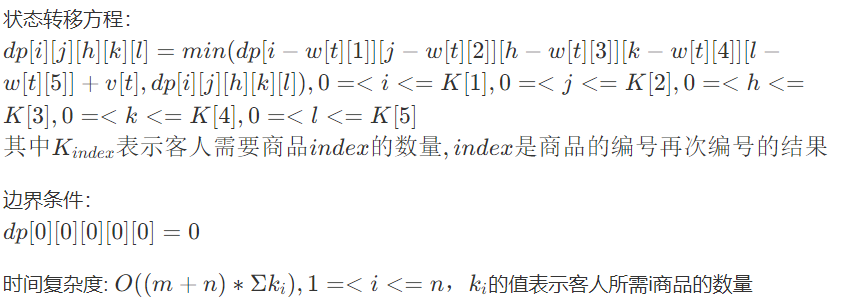
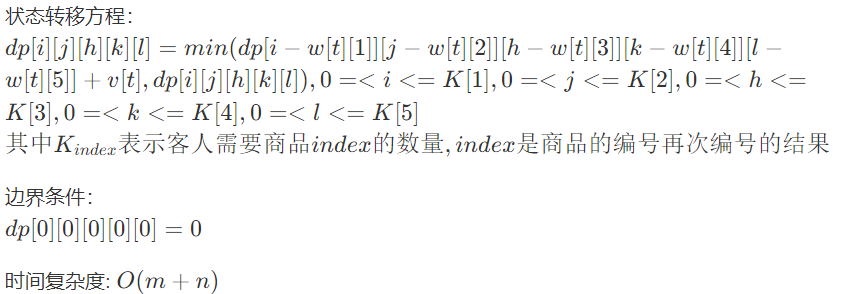
Site updated: 2023-05-20 22:24:40

diff --git a/2023/05/18/动态规划1/index.html b/2023/05/18/动态规划1/index.html
@@ -34,7 +34,7 @@
 <meta property="og:image" content="https://sunwuzhou03.github.io/images/%E5%8A%A8%E6%80%81%E8%A7%84%E5%88%921%E9%A2%98%E7%9B%AE3%E5%88%86%E6%9E%90%E5%9B%BE.png">
 <meta property="og:image" content="https://sunwuzhou03.github.io/images/%E5%8A%A8%E6%80%81%E8%A7%84%E5%88%921%E9%A2%98%E7%9B%AE3%E8%BF%90%E8%A1%8C%E7%BB%93%E6%9E%9C%E5%9B%BE.png">
 <meta property="article:published_time" content="2023-05-18T15:24:16.000Z">
-<meta property="article:modified_time" content="2023-05-20T09:23:13.744Z">
+<meta property="article:modified_time" content="2023-05-20T14:24:24.164Z">
 <meta property="article:author" content="sunwuzhou03">
 <meta property="article:tag" content="动态规划">
 <meta name="twitter:card" content="summary">
@@ -214,7 +214,7 @@
         <i class="far fa-calendar-check"></i>
       </span>
       <span class="post-meta-item-text">更新于</span>
-      <time title="修改时间：2023-05-20 17:23:13" itemprop="dateModified" datetime="2023-05-20T17:23:13+08:00">2023-05-20</time>
+      <time title="修改时间：2023-05-20 22:24:24" itemprop="dateModified" datetime="2023-05-20T22:24:24+08:00">2023-05-20</time>
     </span>
     <span class="post-meta-item">
       <span class="post-meta-item-icon">
@@ -237,7 +237,7 @@
         <i class="far fa-file-word"></i>
       </span>
       <span class="post-meta-item-text">本文字数：</span>
-      <span>5.2k</span>
+      <span>5.5k</span>
     </span>
     <span class="post-meta-item" title="阅读时长">
       <span class="post-meta-item-icon">
@@ -270,16 +270,9 @@ $O(n^2)$, $n$为数字序列长度 -->
 <h2 id="代码"><a href="#代码" class="headerlink" title="代码"></a>代码</h2><figure class="highlight c++"><table><tr><td class="gutter"><pre><span class="line">1</span><br><span class="line">2</span><br><span class="line">3</span><br><span class="line">4</span><br><span class="line">5</span><br><span class="line">6</span><br><span class="line">7</span><br><span class="line">8</span><br><span class="line">9</span><br><span class="line">10</span><br><span class="line">11</span><br><span class="line">12</span><br><span class="line">13</span><br><span class="line">14</span><br><span class="line">15</span><br><span class="line">16</span><br><span class="line">17</span><br><span class="line">18</span><br><span class="line">19</span><br><span class="line">20</span><br><span class="line">21</span><br><span class="line">22</span><br><span class="line">23</span><br><span class="line">24</span><br><span class="line">25</span><br><span class="line">26</span><br><span class="line">27</span><br><span class="line">28</span><br><span class="line">29</span><br><span class="line">30</span><br><span class="line">31</span><br><span class="line">32</span><br><span class="line">33</span><br><span class="line">34</span><br></pre></td><td class="code"><pre><span class="line"><span class="meta">#<span class="keyword">include</span> <span class="string">&lt;bits/stdc++.h&gt;</span></span></span><br><span class="line"><span class="keyword">using</span> <span class="keyword">namespace</span> std;</span><br><span class="line"><span class="function"><span class="type">int</span> <span class="title">main</span><span class="params">()</span></span></span><br><span class="line"><span class="function"></span>&#123;</span><br><span class="line">    <span class="type">int</span> n, f;</span><br><span class="line">    <span class="type">double</span> x[<span class="number">100</span>] = &#123;<span class="number">0</span>&#125;;</span><br><span class="line">    <span class="type">double</span> dp[<span class="number">100</span>][<span class="number">100</span>] = &#123;<span class="number">0.0</span>&#125;;</span><br><span class="line">    <span class="type">double</span> ans = <span class="number">0.0</span>;</span><br><span class="line">    cin &gt;&gt; n &gt;&gt; f;</span><br><span class="line">    <span class="keyword">for</span> (<span class="type">int</span> i = <span class="number">1</span>; i &lt;= n; i++)</span><br><span class="line">        cin &gt;&gt; x[i];</span><br><span class="line">    <span class="keyword">for</span> (<span class="type">int</span> i = <span class="number">1</span>; i &lt;= n; i++)<span class="comment">//枚举序列起点</span></span><br><span class="line">    &#123;</span><br><span class="line">        <span class="keyword">for</span> (<span class="type">int</span> j = <span class="number">1</span>; j &lt;= n - i + <span class="number">1</span>; j++)<span class="comment">//枚举序列长度</span></span><br><span class="line">        &#123;</span><br><span class="line">            dp[i][j] = dp[i][j - <span class="number">1</span>] + (x[i + j - <span class="number">1</span>] - dp[i][j - <span class="number">1</span>]) / j;<span class="comment">//递推公式</span></span><br><span class="line">            <span class="keyword">if</span> (j &gt;= f)<span class="comment">//求解f以上序列平均值最大值</span></span><br><span class="line">                ans = <span class="built_in">max</span>(ans, dp[i][j]); </span><br><span class="line">        &#125;</span><br><span class="line">    &#125;</span><br><span class="line">    <span class="comment">//for (int i = 1; i &lt;= n; i++)//打印各个序列的平均值，便于观察</span></span><br><span class="line">    <span class="comment">//&#123;</span></span><br><span class="line">    <span class="comment">//    for (int j = 1; j &lt;= n; j++)</span></span><br><span class="line">    <span class="comment">//        printf(&quot;%8lf &quot;, dp[i][j]);</span></span><br><span class="line">    <span class="comment">//    cout &lt;&lt; endl;</span></span><br><span class="line">    <span class="comment">//&#125;</span></span><br><span class="line">    <span class="built_in">printf</span>(<span class="string">&quot;%.3lf\n&quot;</span>, ans);<span class="comment">//输出最终结果</span></span><br><span class="line">    <span class="keyword">return</span> <span class="number">0</span>;</span><br><span class="line">&#125;</span><br><span class="line"><span class="comment">/*</span></span><br><span class="line"><span class="comment">10 6</span></span><br><span class="line"><span class="comment">6 4 2 10 3 8 5 9 4 1</span></span><br><span class="line"><span class="comment">*/</span></span><br><span class="line"></span><br></pre></td></tr></table></figure>
 <h2 id="运行结果"><a href="#运行结果" class="headerlink" title="运行结果"></a>运行结果</h2><p><img src="/images/动态规划1题目1运行结果图.png" alt=" "></p>
 <h1 id="题目2"><a href="#题目2" class="headerlink" title="题目2"></a>题目2</h1><h2 id="题面-1"><a href="#题面-1" class="headerlink" title="题面"></a>题面</h2><p>商店为了促销往往将若干个商品捆绑在一起以低于商品原来的价格进行销售，这样可以鼓励顾客购买更多的商品。请帮助顾客计算他最少能以多少的价格才能购买到他所需的商品。注意，他不希望购买的商品与他的要求不符，也就是他购买的商品既不能多也不能少。<br>输入要求：<br>输入的第一行包含一个整数n（0&lt;=n&lt;=5），表示该顾客需要购买的商品的信息。其后的n行，每一行有三个整数c (1 &lt;= c &lt;= 999),k(1 &lt;= k &lt;= 5),p (1 &lt;= p &lt;= 999)，分别表示商品的编号c，购买该商品的数量k 以及该商品的单价p；之后的一行是一个整数m (0 &lt;= m &lt;= 99)，表示可以选择的优惠类型；其后的m行，每一行表示一种优惠类型。每一行的第一个数是一个整数s (1 &lt;= s &lt;= 5)，表示该种优惠包含多少个可以捆绑在一起的优惠商品，每一个捆绑的商品都包含该商品的编号c以及对应的数量h(1 &lt;= h &lt;= 5), 最后一个是该种捆绑优惠的商品的总价格t(1 &lt;= t &lt;= 9999)。比如某种捆绑优惠包含2种不同的商品，第一种商品的编号为7，数量为1，第二种商品的编号为8，数量为2，总的价格为10，则该种捆绑优惠可表示为：<br>2 7 1 8 2 10<br>输出要求：<br>输出一个整数，占一行，表示购买所需商品的最低价格。<br>输入样例：<br>2<br>7 3 2<br>8 2 5<br>2<br>1 7 3 5<br>2 7 1 8 2 10<br>输出样例：<br>14</p>
-<h2 id="分析-1"><a href="#分析-1" class="headerlink" title="分析"></a>分析</h2><p>为了方便求解问题，我们做以下处理，将单个商品处理成一种优惠，仔细阅读题目信息可以发现题目中所给s $&lt;=$5 且客人要求所买商品不能多也不能少，因此每种优惠的总商品数不会超过5个，我们考虑使用完全背包和多种物品背包的思想，使用ccode数组储存对客服需求商品的编号的编码，不需要的商品编码为0，用 $w[i][j]$ 表示第i个礼包商品j的数量，$v[i]$ 表示第i个礼包的价格，我们可以设置以下$dp$数组<br>$dp[i][j][h][k][l]$ 表示第1种商品需要i件，第2种商品需要j件……的最小花费</p>
-<!-- 状态转移方程：
-$dp[i][j][h][k][l] = min(dp[i - w[t][1]] [j - w[t][2]] [h - w[t][3]] [k - w[t][4]] [l - w[t][5]] + v[t], dp[i][j][h][k][l]), 0=<i<=K[1], 0=<j<=K[2], 0=<h<=K[3], 0=<k<=K[4], 0=<l<=K[5]$ 
-$其中K_{index}表示客人需要商品index的数量, index是商品的编号再次编号的结果$
-
-边界条件：
-$ dp[0][0][0][0][0] = 0$
-
-时间复杂度: $O((m+n)* \Sigma k_i), 1=<i<=n，k_i$的值表示客人所需i商品的数量 -->
-<p><img src="/images/动态规划1题目2分析图.png" alt=" "></p>
+<h2 id="分析-1"><a href="#分析-1" class="headerlink" title="分析"></a>分析</h2><p>为了方便求解问题，我们做以下处理，将单个商品处理成一种优惠，仔细阅读题目信息可以发现题目中所给s $&lt;=$5 且客人要求所买商品不能多也不能少，因此每种优惠的总商品数不会超过5个，我们考虑使用完全背包和多种物品背包的思想，使用ccode数组储存对客服需求商品的编号的编码，不需要的商品编码为0，用 $w[i][j]$ 表示第i个礼包商品j的数量，$v[i]$ 表示第i个礼包的价格，我们可以设置以下$dp$数组<br>$dp[i][j][h][k][l]$ 表示第1种商品需要i件，第2种商品需要j件……的最小花费<br>&lt;!—<br>状态转移方程：<br>$dp[i][j][h][k][l] = min(dp[i - w[t][1]] [j - w[t][2]] [h - w[t][3]] [k - w[t][4]] [l - w[t][5]] + v[t], dp[i][j][h][k][l]), 0=&lt;i&lt;=K[1], 0=&lt;j&lt;=K[2], 0=&lt;h&lt;=K[3], 0=&lt;k&lt;=K[4], 0=&lt;l&lt;=K[5]$<br>$其中K_{index}表示客人需要商品index的数量, index是商品的编号再次编号的结果$</p>
+<p>边界条件：<br>$ dp[0][0][0][0][0] = 0$</p>
+<p>时间复杂度: $O(m+n)$ —&gt;<br><img src="/images/动态规划1题目2分析图.png" alt=" "></p>
 <h2 id="代码-1"><a href="#代码-1" class="headerlink" title="代码"></a>代码</h2><figure class="highlight c++"><table><tr><td class="gutter"><pre><span class="line">1</span><br><span class="line">2</span><br><span class="line">3</span><br><span class="line">4</span><br><span class="line">5</span><br><span class="line">6</span><br><span class="line">7</span><br><span class="line">8</span><br><span class="line">9</span><br><span class="line">10</span><br><span class="line">11</span><br><span class="line">12</span><br><span class="line">13</span><br><span class="line">14</span><br><span class="line">15</span><br><span class="line">16</span><br><span class="line">17</span><br><span class="line">18</span><br><span class="line">19</span><br><span class="line">20</span><br><span class="line">21</span><br><span class="line">22</span><br><span class="line">23</span><br><span class="line">24</span><br><span class="line">25</span><br><span class="line">26</span><br><span class="line">27</span><br><span class="line">28</span><br><span class="line">29</span><br><span class="line">30</span><br><span class="line">31</span><br><span class="line">32</span><br><span class="line">33</span><br><span class="line">34</span><br><span class="line">35</span><br><span class="line">36</span><br><span class="line">37</span><br><span class="line">38</span><br><span class="line">39</span><br><span class="line">40</span><br><span class="line">41</span><br><span class="line">42</span><br><span class="line">43</span><br><span class="line">44</span><br><span class="line">45</span><br><span class="line">46</span><br><span class="line">47</span><br><span class="line">48</span><br><span class="line">49</span><br><span class="line">50</span><br><span class="line">51</span><br><span class="line">52</span><br><span class="line">53</span><br><span class="line">54</span><br><span class="line">55</span><br><span class="line">56</span><br><span class="line">57</span><br><span class="line">58</span><br><span class="line">59</span><br><span class="line">60</span><br><span class="line">61</span><br><span class="line">62</span><br><span class="line">63</span><br><span class="line">64</span><br><span class="line">65</span><br><span class="line">66</span><br><span class="line">67</span><br><span class="line">68</span><br><span class="line">69</span><br><span class="line">70</span><br><span class="line">71</span><br><span class="line">72</span><br><span class="line">73</span><br></pre></td><td class="code"><pre><span class="line"><span class="meta">#<span class="keyword">include</span> <span class="string">&lt;bits/stdc++.h&gt;</span></span></span><br><span class="line"><span class="keyword">using</span> <span class="keyword">namespace</span> std;</span><br><span class="line"><span class="type">int</span> dp[<span class="number">7</span>][<span class="number">6</span>][<span class="number">6</span>][<span class="number">6</span>][<span class="number">6</span>];</span><br><span class="line"><span class="type">int</span> ccode[<span class="number">1000</span>];</span><br><span class="line"><span class="type">int</span> need[<span class="number">1000</span>];</span><br><span class="line"><span class="type">int</span> tmax;</span><br><span class="line"><span class="type">int</span> w[<span class="number">11</span>][<span class="number">11</span>]; <span class="comment">// w[i][j]表示第i个礼包商品j的数量</span></span><br><span class="line"><span class="type">int</span> v[<span class="number">11</span>];     <span class="comment">// v[i]表示第i个礼包的价格</span></span><br><span class="line"><span class="type">int</span> n, m;</span><br><span class="line"><span class="function"><span class="type">int</span> <span class="title">dfs</span><span class="params">(<span class="type">int</span> i, <span class="type">int</span> j, <span class="type">int</span> h, <span class="type">int</span> k, <span class="type">int</span> l)</span></span></span><br><span class="line"><span class="function"></span>&#123;</span><br><span class="line">    <span class="comment">// cout &lt;&lt; i &lt;&lt; &quot; &quot; &lt;&lt; j &lt;&lt; &quot; &quot; &lt;&lt; h &lt;&lt; &quot; &quot; &lt;&lt; k &lt;&lt; &quot; &quot; &lt;&lt; l &lt;&lt; &quot; &quot; &lt;&lt; dp[i][j][h][k][l] &lt;&lt; endl;</span></span><br><span class="line">    <span class="keyword">if</span> (dp[i][j][h][k][l] != dp[<span class="number">6</span>][<span class="number">0</span>][<span class="number">0</span>][<span class="number">0</span>][<span class="number">0</span>])<span class="comment">//当前值已经求过返回当前值</span></span><br><span class="line">        <span class="keyword">return</span> dp[i][j][h][k][l];</span><br><span class="line">    <span class="keyword">for</span> (<span class="type">int</span> t = <span class="number">1</span>; t &lt;= m + n; t++)</span><br><span class="line">    &#123;</span><br><span class="line">        <span class="comment">// cout &lt;&lt; &quot;t=&quot; &lt;&lt; t &lt;&lt; endl;</span></span><br><span class="line">        <span class="keyword">if</span> (i - w[t][<span class="number">1</span>] &lt; <span class="number">0</span> || j - w[t][<span class="number">2</span>] &lt; <span class="number">0</span> || h - w[t][<span class="number">3</span>] &lt; <span class="number">0</span> || k - w[t][<span class="number">4</span>] &lt; <span class="number">0</span> || l - w[t][<span class="number">5</span>] &lt; <span class="number">0</span>)</span><br><span class="line">            <span class="keyword">continue</span>;</span><br><span class="line">        dp[i][j][h][k][l] = <span class="built_in">min</span>(<span class="built_in">dfs</span>(i - w[t][<span class="number">1</span>], j - w[t][<span class="number">2</span>], h - w[t][<span class="number">3</span>], k - w[t][<span class="number">4</span>], l - w[t][<span class="number">5</span>]) + v[t], dp[i][j][h][k][l]);</span><br><span class="line">    &#125;</span><br><span class="line">    <span class="keyword">return</span> dp[i][j][h][k][l];</span><br><span class="line">&#125;</span><br><span class="line"><span class="function"><span class="type">int</span> <span class="title">main</span><span class="params">()</span></span></span><br><span class="line"><span class="function"></span>&#123;</span><br><span class="line">    cin &gt;&gt; n;</span><br><span class="line">    <span class="built_in">memset</span>(dp, <span class="number">127</span>, <span class="built_in">sizeof</span>(dp));<span class="comment">//dp数组初始化为一个极大值</span></span><br><span class="line">    <span class="built_in">memset</span>(w, <span class="number">0</span>, <span class="built_in">sizeof</span>(w));</span><br><span class="line">    <span class="built_in">memset</span>(v, <span class="number">0</span>, <span class="built_in">sizeof</span>(v));</span><br><span class="line">    <span class="built_in">memset</span>(need, <span class="number">0</span>, <span class="built_in">sizeof</span>(need));</span><br><span class="line">    dp[<span class="number">0</span>][<span class="number">0</span>][<span class="number">0</span>][<span class="number">0</span>][<span class="number">0</span>] = <span class="number">0</span>;</span><br><span class="line">    <span class="keyword">for</span> (<span class="type">int</span> i = <span class="number">1</span>; i &lt;= n; i++)<span class="comment">//将单独购买看成一个只有一种商品的优惠，价格为单价</span></span><br><span class="line">    &#123;</span><br><span class="line">        <span class="type">int</span> c, k, p;</span><br><span class="line">        cin &gt;&gt; c &gt;&gt; k &gt;&gt; p;</span><br><span class="line">        need[i] = k;<span class="comment">//存储客人所需商品i的数量</span></span><br><span class="line">        ccode[c] = i;</span><br><span class="line">        w[i][i] = <span class="number">1</span>;</span><br><span class="line">        v[i] = p;</span><br><span class="line">    &#125;</span><br><span class="line">    cin &gt;&gt; m;</span><br><span class="line">    <span class="keyword">for</span> (<span class="type">int</span> i = n + <span class="number">1</span>; i &lt;= n + m; i++)</span><br><span class="line">    &#123;</span><br><span class="line">        <span class="type">int</span> s, p;</span><br><span class="line">        cin &gt;&gt; s;</span><br><span class="line">        <span class="keyword">for</span> (<span class="type">int</span> j = <span class="number">1</span>; j &lt;= s; j++)</span><br><span class="line">        &#123;</span><br><span class="line">            <span class="type">int</span> c, h;</span><br><span class="line">            cin &gt;&gt; c &gt;&gt; h;</span><br><span class="line">            w[i][ccode[c]] = h;</span><br><span class="line">        &#125;</span><br><span class="line">        cin &gt;&gt; p;</span><br><span class="line">        v[i] = p;</span><br><span class="line">    &#125;</span><br><span class="line">    <span class="comment">// for (int i = 1; i &lt;= n + m; i++)</span></span><br><span class="line">    <span class="comment">// &#123;</span></span><br><span class="line">    <span class="comment">//     for (int j = 1; j &lt;= 10; j++)</span></span><br><span class="line">    <span class="comment">//     &#123;</span></span><br><span class="line">    <span class="comment">//         cout &lt;&lt; w[i][j] &lt;&lt; &quot; &quot;;</span></span><br><span class="line">    <span class="comment">//     &#125;</span></span><br><span class="line">    <span class="comment">//     cout &lt;&lt; v[i] &lt;&lt; endl;</span></span><br><span class="line">    <span class="comment">// &#125;</span></span><br><span class="line">    cout &lt;&lt; <span class="built_in">dfs</span>(need[<span class="number">1</span>], need[<span class="number">2</span>], need[<span class="number">3</span>], need[<span class="number">4</span>], need[<span class="number">5</span>]);</span><br><span class="line">    <span class="keyword">return</span> <span class="number">0</span>;</span><br><span class="line">&#125;</span><br><span class="line"><span class="comment">/*</span></span><br><span class="line"><span class="comment">2</span></span><br><span class="line"><span class="comment">7 3 2</span></span><br><span class="line"><span class="comment">8 2 5</span></span><br><span class="line"><span class="comment">2</span></span><br><span class="line"><span class="comment">1 7 3 5</span></span><br><span class="line"><span class="comment">2 7 1 8 2 10</span></span><br><span class="line"><span class="comment">*/</span></span><br></pre></td></tr></table></figure>
 <h2 id="运行结果-1"><a href="#运行结果-1" class="headerlink" title="运行结果"></a>运行结果</h2><p><img src="/images/动态规划1题目2运行结果图.png" alt=" "></p>
 <h1 id="题目3"><a href="#题目3" class="headerlink" title="题目3"></a>题目3</h1><h2 id="题面-2"><a href="#题面-2" class="headerlink" title="题面"></a>题面</h2><p>定义树中某结点的平衡为删除该结点后所形成的森林中各树结点数的最大值。如下图左边的树，如果删除其中的一个结点3，则该树变成右边的森林，也就是多棵树，这些树的结点数分别为6，1，1，1，其最大值为6，因此结点3的平衡为6。<br><img src="/images/动态规划1题目3图.png" alt=" "><br>在给定一棵树的情况下，求该树中所有结点的最小平衡数。<br>输入要求：<br>输入的第一行是一个整数n（(1 &lt;= n&lt;= 20)，表示测试数据的组数。每一组测试数据的第一行是一个整数m (1 &lt;= m &lt;= 20,000)，表示树中的一对结点，其后的N-1行，每一行包含两个整数，表示树中相连的两个结点。树中结点的编号从1开始编号。<br>输出要求：<br>对于每一组测试数据输出一行，表示该树中所有结点的平衡数的最小值。<br>输入样例：<br>1<br>9<br>1 2<br>1 3<br>1 4<br>2 5<br>3 6<br>3 7<br>3 8<br>4 9<br>4 10<br>输出样例：<br>4</p>

diff --git a/default-index/index.html b/default-index/index.html
@@ -201,7 +201,7 @@
         <i class="far fa-calendar-check"></i>
       </span>
       <span class="post-meta-item-text">更新于</span>
-      <time title="修改时间：2023-05-20 17:23:13" itemprop="dateModified" datetime="2023-05-20T17:23:13+08:00">2023-05-20</time>
+      <time title="修改时间：2023-05-20 22:24:24" itemprop="dateModified" datetime="2023-05-20T22:24:24+08:00">2023-05-20</time>
     </span>
     <span class="post-meta-item">
       <span class="post-meta-item-icon">
@@ -224,7 +224,7 @@
         <i class="far fa-file-word"></i>
       </span>
       <span class="post-meta-item-text">本文字数：</span>
-      <span>5.2k</span>
+      <span>5.5k</span>
     </span>
     <span class="post-meta-item" title="阅读时长">
       <span class="post-meta-item-icon">

diff --git a/css/main.css b/css/main.css
@@ -2451,7 +2451,7 @@ header.header {
   vertical-align: middle;
 }
 .links-of-author a::before {
-  background: #ff4646;
+  background: #bdc28a;
   display: inline-block;
   margin-right: 3px;
   transform: translateY(-2px);

diff --git a/en/css/main.css b/en/css/main.css
@@ -2444,7 +2444,7 @@ header.header {
   vertical-align: middle;
 }
 .links-of-author a::before {
-  background: #60ff1d;
+  background: #3785c1;
   display: inline-block;
   margin-right: 3px;
   transform: translateY(-2px);
